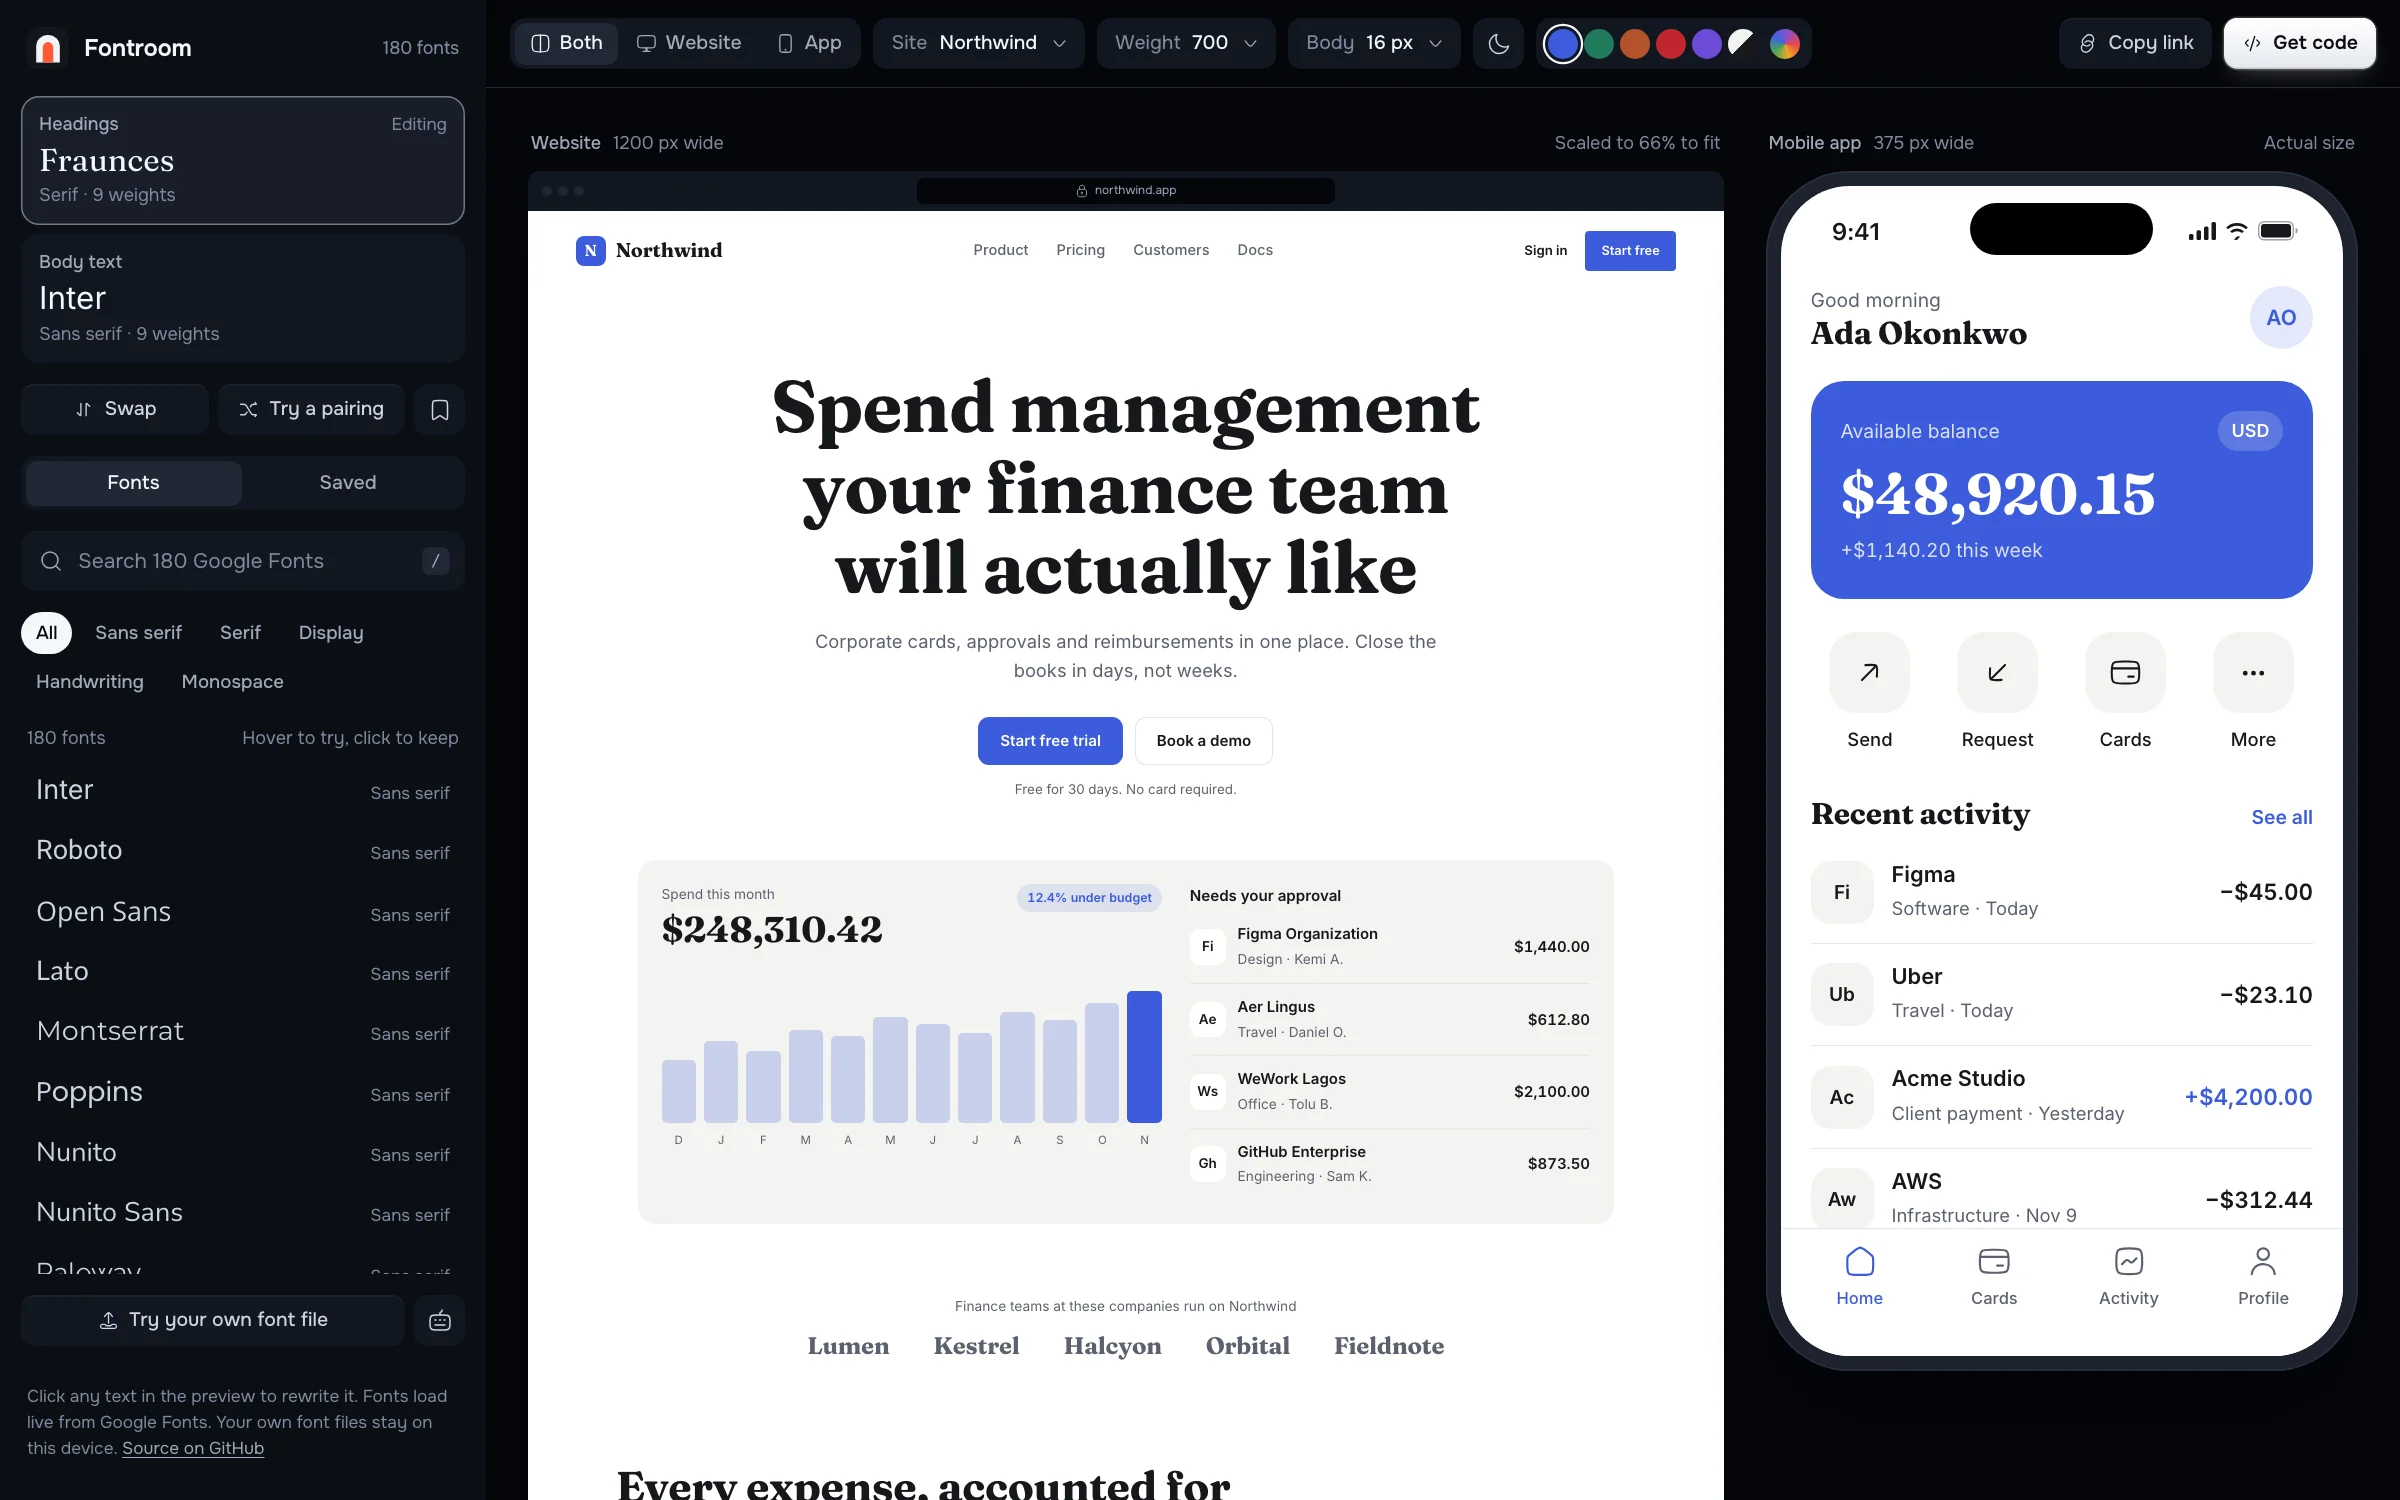
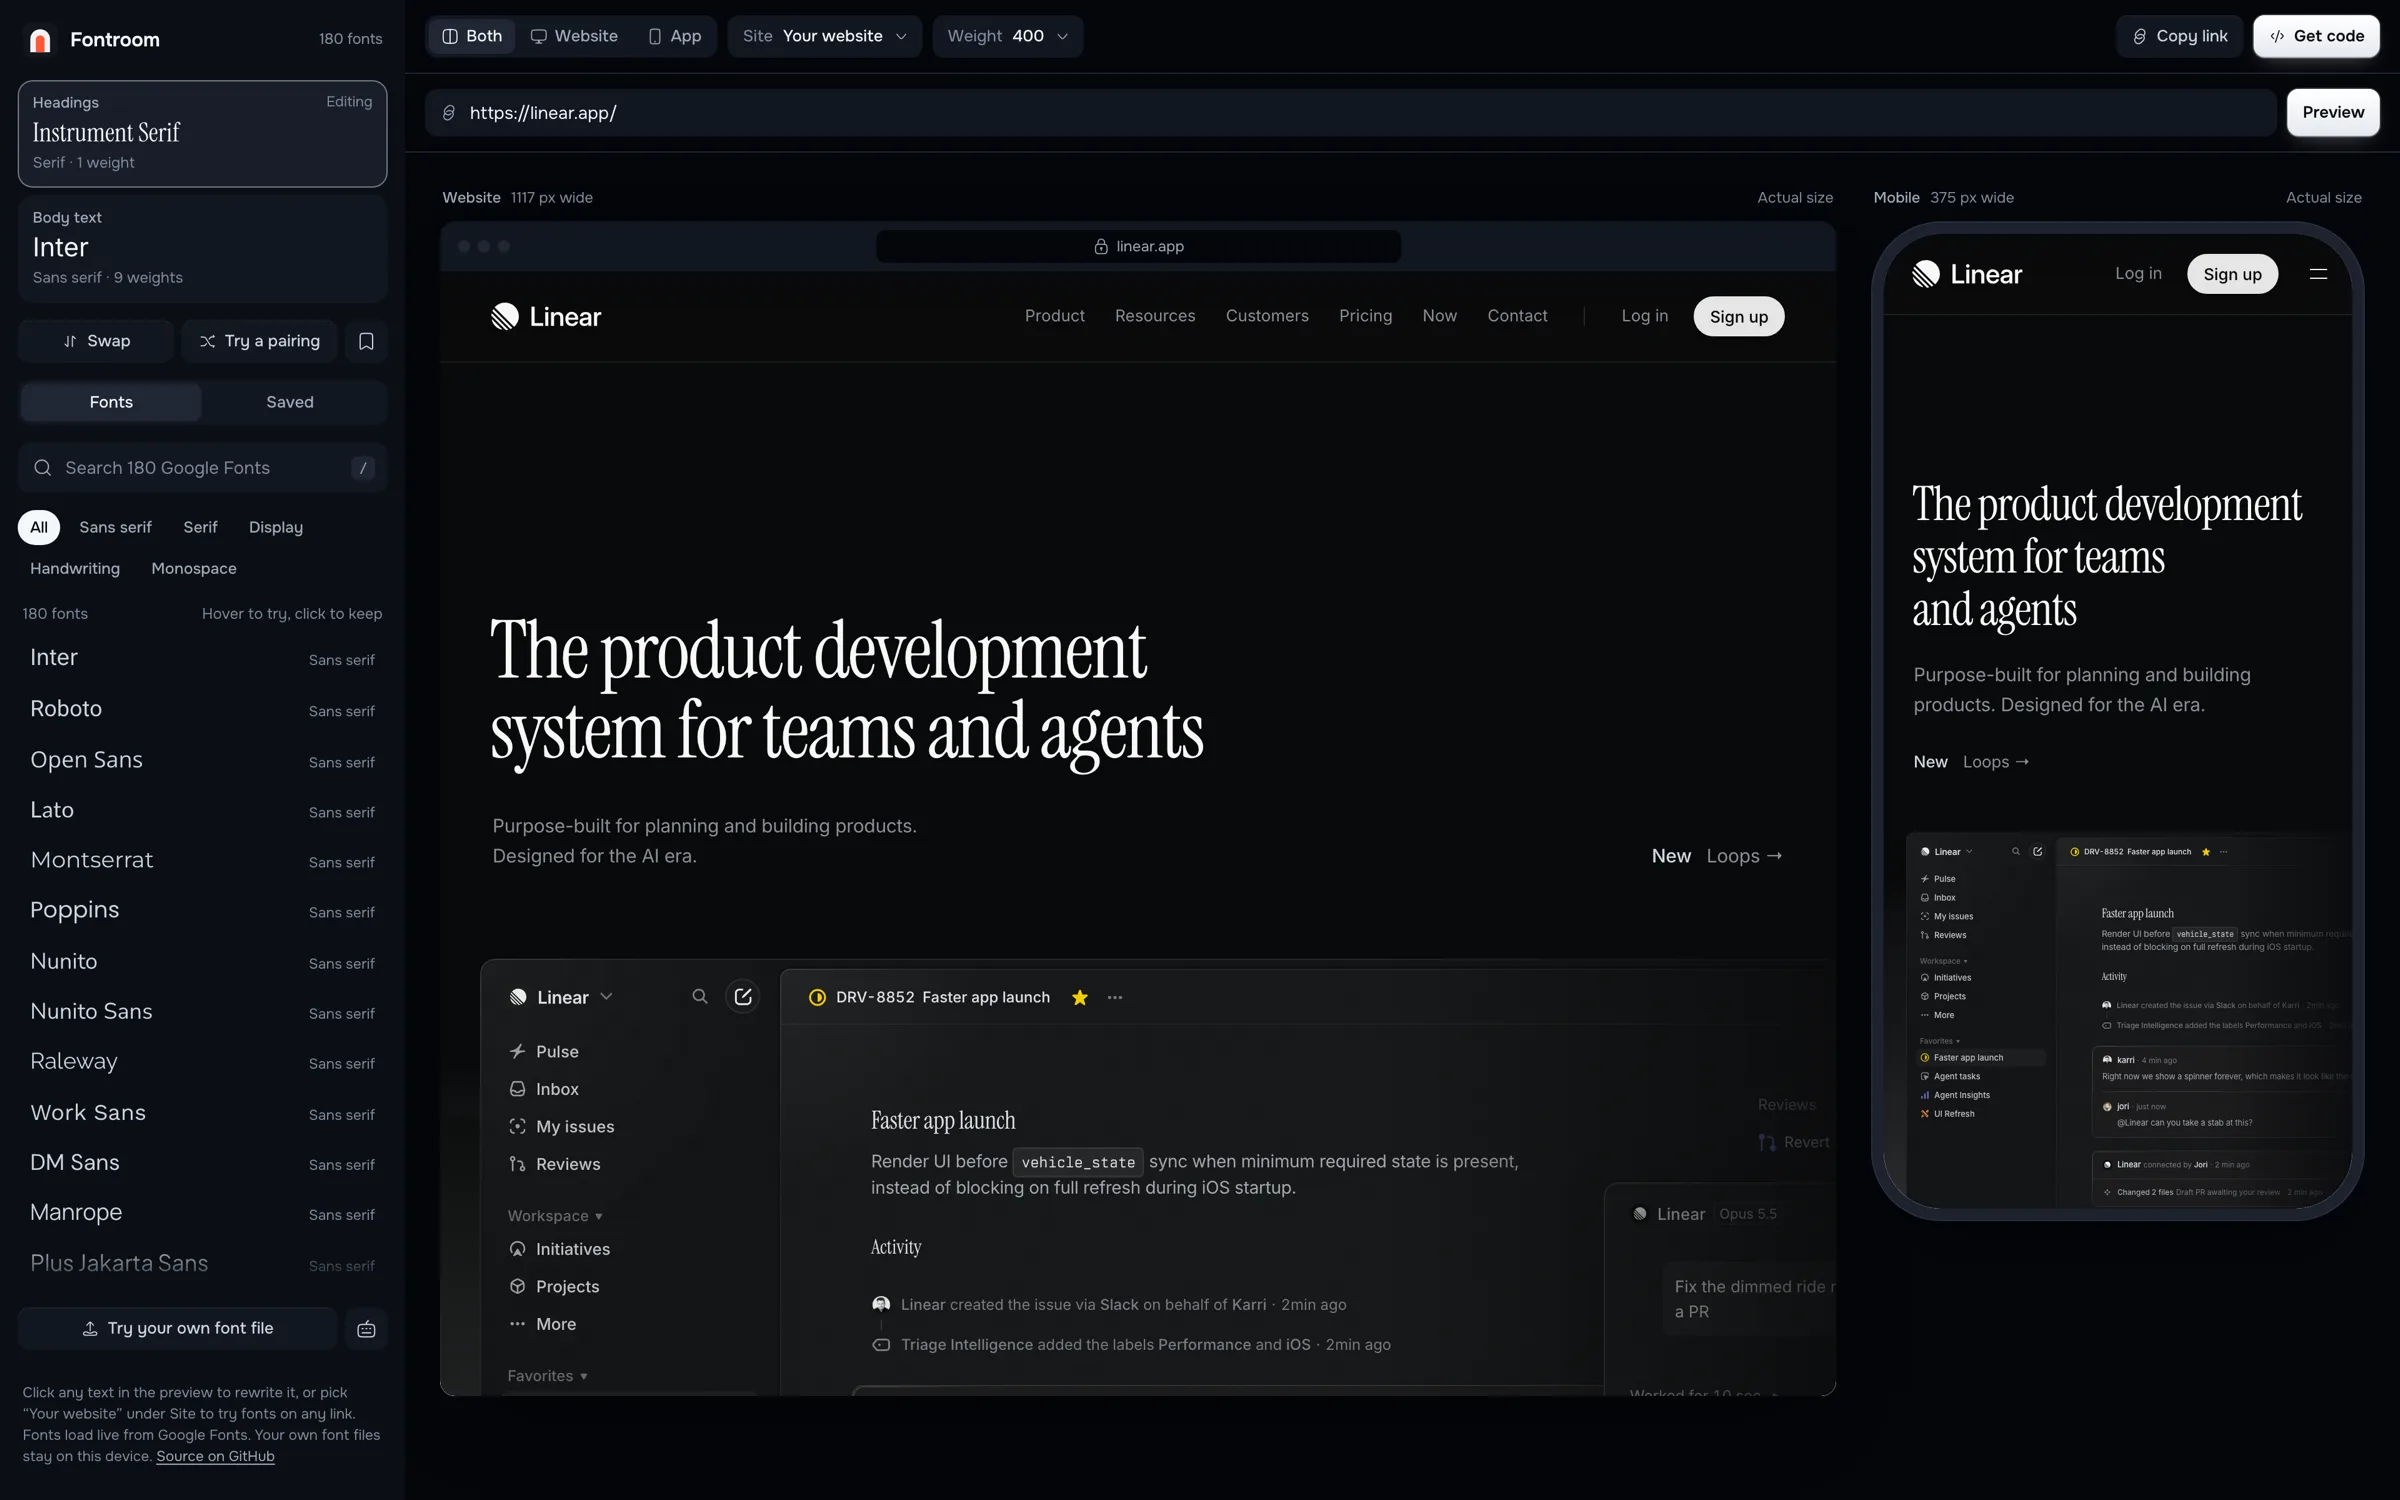
Show the latest UI on linear.app in the landing SaaS screenshot

diff --git a/public/index.html b/public/index.html
@@ -184,7 +184,7 @@
     </div>
     <div class="frame">
       <div class="shots" id="shots" role="tabpanel" aria-labelledby="tab-saas" tabindex="0">
-        <img class="is-on" src="img/shot-saas.webp" width="2400" height="1500" fetchpriority="high" alt="Fontroom with Fraunces headings and Inter body text on a finance website and a banking app">
+        <img class="is-on" src="img/shot-saas.webp" width="2400" height="1500" fetchpriority="high" alt="Fontroom previewing Instrument Serif headings and Inter body text on the live linear.app website and its mobile layout">
         <img src="img/shot-docs.webp" width="2400" height="1500" alt="Fontroom showing a developer docs website and a webhooks app" loading="lazy">
         <img src="img/shot-magazine.webp" width="2400" height="1500" alt="Fontroom showing a magazine website and reading app in dark mode" loading="lazy">
       </div>
